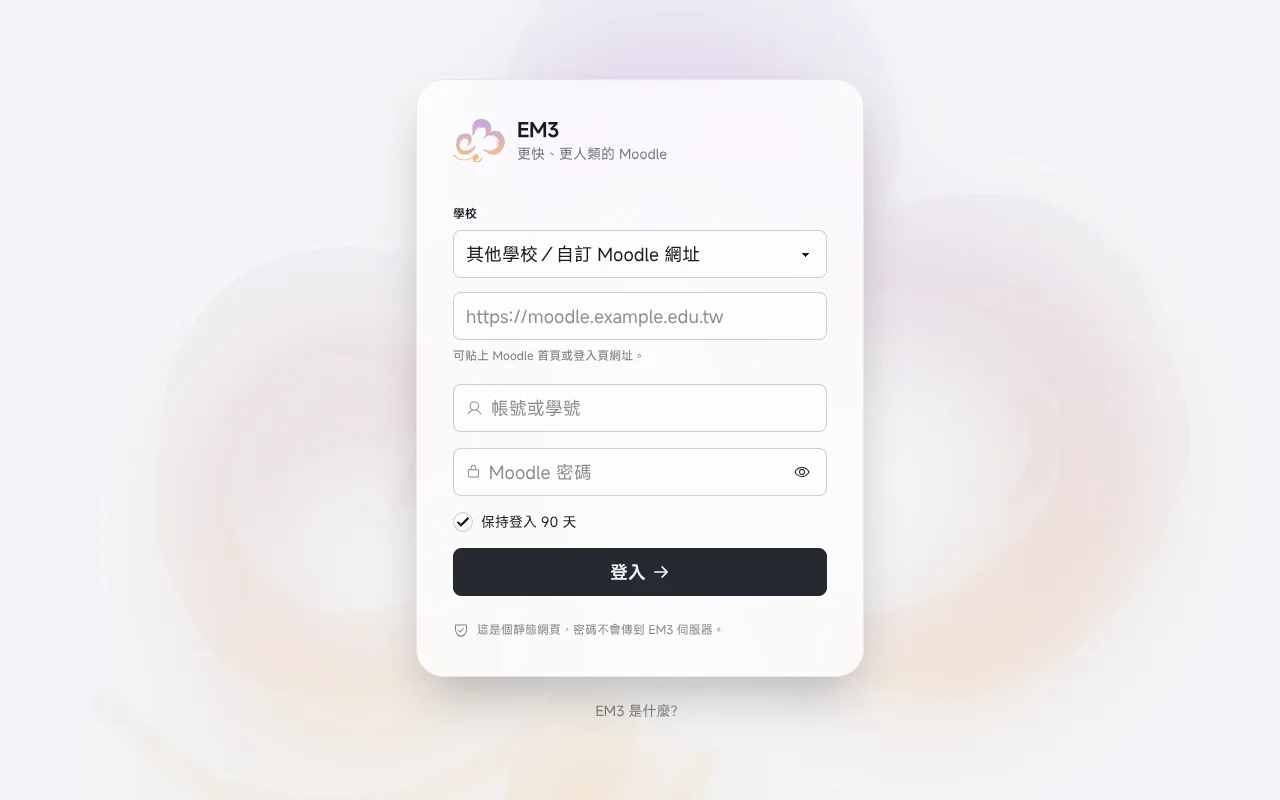
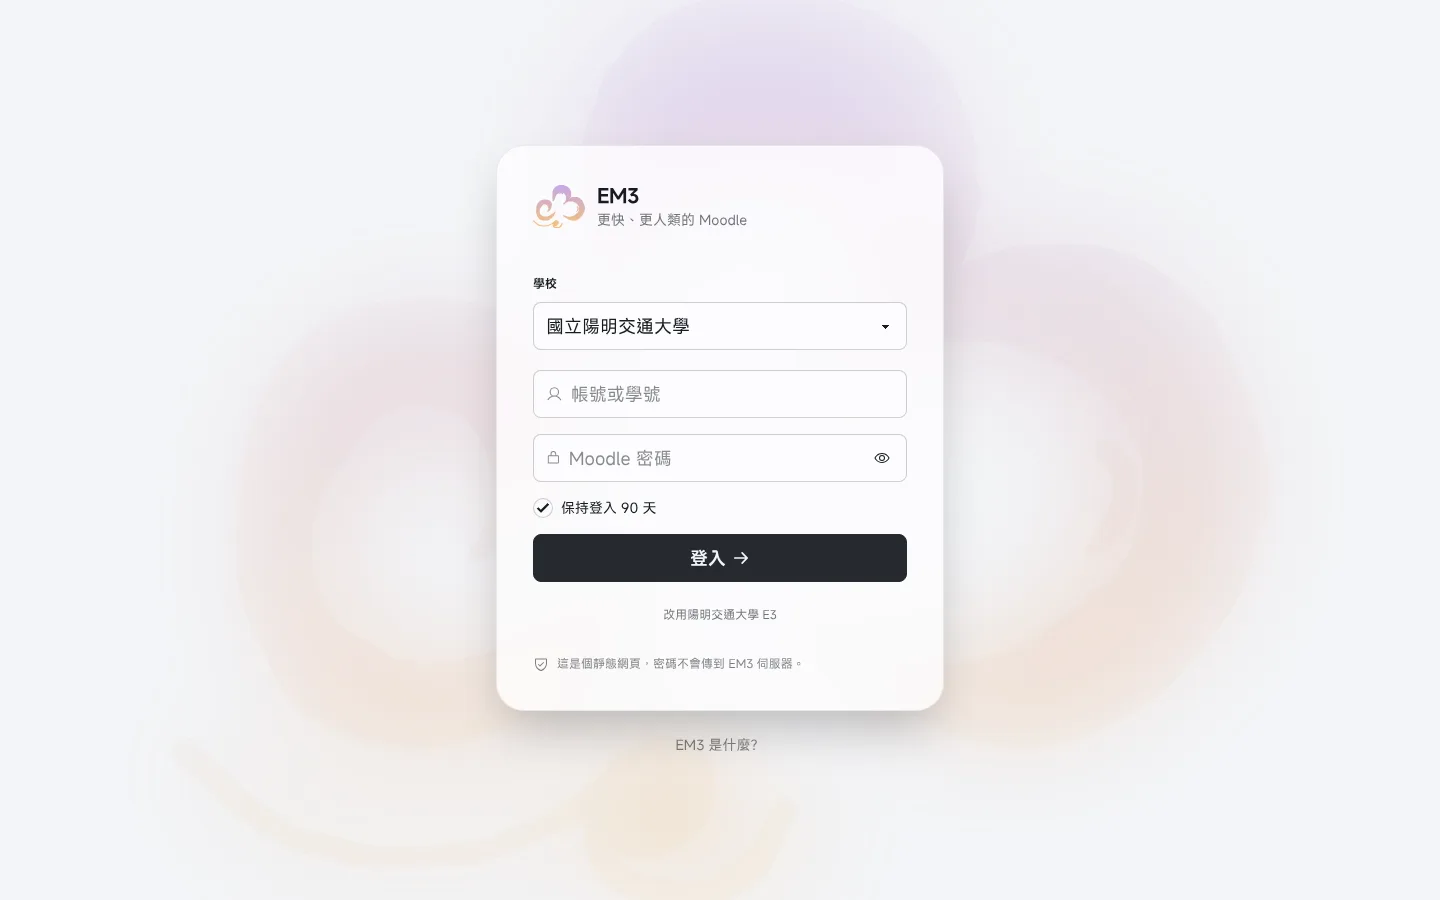
auth: refine multi-site login UX

Changed region(s): [[0.3125, 0.25, 0.6875, 0.9062], [0.3438, 0.0938, 0.6562, 0.25], [0.625, 0.1875, 0.6875, 0.4688]]

diff --git a/src/features/auth/LoginPage.tsx b/src/features/auth/LoginPage.tsx
@@ -14,6 +14,7 @@ export function LoginPage() {
 	const [username, setUsername] = useState("");
 	const [password, setPassword] = useState("");
 	const [baseUrl, setBaseUrl] = useState(DEFAULT_MOODLE_URL);
+	const [showOtherSchools, setShowOtherSchools] = useState(false);
 	const [customSite, setCustomSite] = useState(false);
 	const [remember, setRemember] = useState(true);
 	const [reveal, setReveal] = useState(false);
@@ -51,42 +52,49 @@ export function LoginPage() {
 						<p className="text-sm text-base-content/60">更快、更人類的 Moodle</p>
 					</div>
 				</div>
+				{!showOtherSchools && <p className="mb-5 text-sm font-medium text-base-content/70">使用陽明交通大學 E3 登入</p>}
 
 				<form onSubmit={submit} className="space-y-4">
-					<fieldset className="fieldset">
-						<legend className="fieldset-legend">學校</legend>
-						<select
-							className="select select-lg w-full"
-							value={customSite ? "custom" : baseUrl}
-							onChange={e => {
-								const custom = e.target.value === "custom";
-								setCustomSite(custom);
-								setBaseUrl(custom ? "" : e.target.value);
-							}}
-						>
-							{MOODLE_SITES.map(site => (
-								<option key={site.baseUrl} value={site.baseUrl}>
-									{site.name}
-								</option>
-							))}
-							<option value="custom">其他學校／自訂 Moodle 網址</option>
-						</select>
-						{customSite && (
-							<>
-								<input
-									type="text"
-									inputMode="url"
-									className="input input-lg mt-2 w-full"
-									autoComplete="url"
-									required
-									placeholder="https://moodle.example.edu.tw"
-									value={baseUrl}
-									onChange={e => setBaseUrl(e.target.value)}
-								/>
-								<p className="label">可貼上 Moodle 首頁或登入頁網址。</p>
-							</>
-						)}
-					</fieldset>
+					{showOtherSchools && (
+						<fieldset className="fieldset">
+							<label htmlFor="moodle-site" className="fieldset-legend">
+								學校
+							</label>
+							<select
+								id="moodle-site"
+								aria-label="選擇 Moodle 學校"
+								className="select select-lg w-full"
+								value={customSite ? "custom" : baseUrl}
+								onChange={e => {
+									const custom = e.target.value === "custom";
+									setCustomSite(custom);
+									setBaseUrl(custom ? "" : e.target.value);
+								}}
+							>
+								{MOODLE_SITES.map(site => (
+									<option key={site.baseUrl} value={site.baseUrl}>
+										{site.name}
+									</option>
+								))}
+								<option value="custom">其他學校／自訂 Moodle 網址</option>
+							</select>
+							{customSite && (
+								<>
+									<input
+										type="text"
+										inputMode="url"
+										className="input input-lg mt-2 w-full"
+										autoComplete="url"
+										required
+										placeholder="https://moodle.example.edu.tw"
+										value={baseUrl}
+										onChange={e => setBaseUrl(e.target.value)}
+									/>
+									<p className="label">可貼上 Moodle 首頁或登入頁網址。</p>
+								</>
+							)}
+						</fieldset>
+					)}
 					<label className="input input-lg w-full">
 						<UserIcon size={18} className="opacity-50" />
 						<input className="grow" autoComplete="username" inputMode="text" required placeholder="帳號或學號" value={username} onChange={e => setUsername(e.target.value)} />
@@ -127,6 +135,19 @@ export function LoginPage() {
 								<ArrowRightIcon size={18} weight="bold" />
 							</>
 						)}
+					</button>
+					<button
+						type="button"
+						className="btn btn-ghost btn-sm w-full font-normal text-base-content/60"
+						onClick={() => {
+							if (showOtherSchools) {
+								setBaseUrl(DEFAULT_MOODLE_URL);
+								setCustomSite(false);
+							}
+							setShowOtherSchools(value => !value);
+						}}
+					>
+						{showOtherSchools ? "改用陽明交通大學 E3" : "不是陽明交大的學生？選擇其他學校"}
 					</button>
 				</form>
 

diff --git a/tests/client.test.ts b/tests/client.test.ts
@@ -30,6 +30,17 @@ test("requestToken explains unreachable or CORS-blocked Moodle sites", async t =
 	});
 });
 
+test("requestToken explains non-JSON responses from non-Moodle sites", async t => {
+	t.mock.method(globalThis, "fetch", async () => new Response("<!doctype html><title>Not Moodle</title>", { headers: { "content-type": "text/html" } }));
+
+	await assert.rejects(requestToken("https://example.edu.tw", "student", "secret"), (error: unknown) => {
+		assert.ok(error instanceof MoodleError);
+		assert.equal(error.code, "notmoodle");
+		assert.match(error.message, /不是 Moodle|行動版 API/);
+		return true;
+	});
+});
+
 test("call uses the Moodle URL configured for the active session", async t => {
 	let requested = "";
 	t.mock.method(globalThis, "fetch", async input => {

diff --git a/src/lib/moodle/client.ts b/src/lib/moodle/client.ts
@@ -93,7 +93,12 @@ export async function requestToken(baseUrl: string, username: string, password: 
 		throw new MoodleError("無法連線到這個 Moodle；學校可能未啟用行動版 API 或跨網域存取", "network");
 	}
 	if (!res.ok) throw new MoodleError(`Moodle 回應 HTTP ${res.status}`, "http");
-	const data = (await res.json()) as TokenResponse | { error: string; errorcode: string };
+	let data: TokenResponse | { error: string; errorcode: string };
+	try {
+		data = (await res.json()) as TokenResponse | { error: string; errorcode: string };
+	} catch {
+		throw new MoodleError("這個網址看起來不是 Moodle，或學校未啟用行動版 API", "notmoodle");
+	}
 	if ("error" in data) throw new MoodleError(data.error, data.errorcode);
 	return data;
 }

diff --git a/src/features/auth/session.ts b/src/features/auth/session.ts
@@ -6,7 +6,7 @@ import type { SiteInfo } from "@/lib/moodle/types";
 import { create } from "zustand";
 
 const COOKIE = "em3_session";
-/** Moodle mobile tokens live for months; refresh the cookie on every visit. */
+/** Moodle mobile tokens can live for months when the user opts to stay signed in. */
 const COOKIE_DAYS = 90;
 
 interface StoredSession {
@@ -39,7 +39,6 @@ const initial = loadSession();
 const initialBaseUrl = initial?.baseUrl ?? DEFAULT_MOODLE_URL;
 setMoodleBaseUrl(initialBaseUrl);
 setToken(initial?.token ?? null);
-if (initial) writeCookie(COOKIE, JSON.stringify({ ...initial, baseUrl: initialBaseUrl }), COOKIE_DAYS);
 
 export const useSession = create<SessionState>((set, get) => ({
 	token: initial?.token ?? null,

diff --git a/src/features/landing/LandingPage.tsx b/src/features/landing/LandingPage.tsx
@@ -116,7 +116,7 @@ export function LandingPage() {
 		</Link>
 	) : (
 		<Link to="/login" className="btn btn-neutral btn-lg gap-2">
-			用 E3 帳號登入
+			用 Moodle 帳號登入
 			<ArrowRightIcon size={18} weight="bold" />
 		</Link>
 	);
@@ -381,7 +381,7 @@ export function LandingPage() {
 						<motion.h2 {...reveal} className="text-3xl leading-tight font-bold tracking-tight lg:col-span-4 sm:text-4xl">
 							你的帳號，
 							<br />
-							只跟 E3 說話
+							只跟 Moodle 說話
 						</motion.h2>
 						<motion.ul {...reveal} className="space-y-6 text-[1.05rem] leading-relaxed text-base-content/70 lg:col-span-8">
 							<li>
